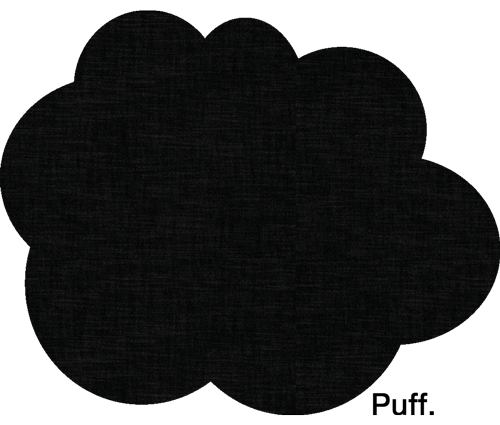
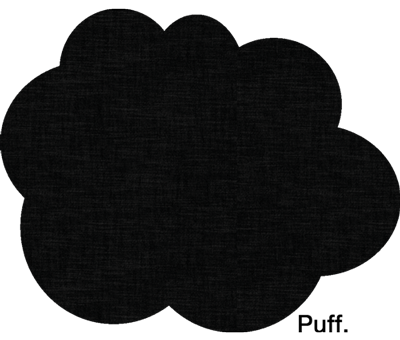
Css fix
Fixat med css:en och ändrat i meny, lagt in en ny div.

diff --git a/css/style.css b/css/style.css
@@ -1,8 +1,9 @@
 body
 {
   background-color:#fff;
+  background-image:url(../bilder/bg.png);
   min-width: 800px;
-  min-height: 400px
+  min-height: 400px;
 }
 img
 {
@@ -13,6 +14,10 @@ img
 p {
   color: #000;
   text-align: center;
+}
+#logga {
+  margin-left: 50%;
+  margin-right: 50%;
 }
 #wrapper {
   margin:auto;
@@ -46,7 +51,7 @@ p {
   border: 1px solid #000;
   max-width: 400px;
   color: #000;
-  background-color: #000;
+  background-color: #7c7c7c;
   -moz-border-radius: 0.5em;
   -webkit-border-radius: 0.5em;
 }
@@ -72,10 +77,10 @@ form input {
   margin: 2px;
 }
 
-table {width:98%; text-align:left; border:1px solid #000; font-size:12px; color:#000;background:#fff; margin-bottom:10px;}
-table th {background-color:#000; border:1px solid #000; padding:3px 6px; font-weight:normal; color:#000;}
-table tr td {border:1px solid #000; padding:5px 6px;}
-table tr.alt td {background-color:#000;}
-table tr:hover {background-color:#000; color:#000;}
+table {width:98%; text-align:left; border:1px solid #7c7c7c; font-size:12px; color:#000;background:#fff; margin-bottom:10px;}
+table th {background-color:#000; border:1px solid #7c7c7c; padding:3px 6px; font-weight:normal; color:#000;}
+table tr td {border:1px solid #7c7c7c; padding:5px 6px;}
+table tr.alt td {background-color:#7c7c7c;}
+table tr:hover {background-color:#7c7c7c; color:#000;}
 
 

diff --git a/admin/meny.php b/admin/meny.php
@@ -1,4 +1,4 @@
-<img src="../bilder/puff1.png">
+<div id="logga"><img src="../bilder/puff3.png"></div>
 <ul id='adminmeny'>
   <li><a href="index.php">Blogg</a></li>
   <li><a href="anvandare.php">Användare</a></li>
